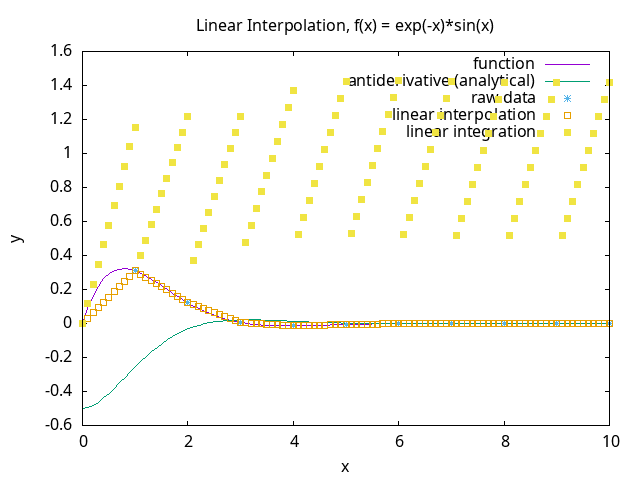
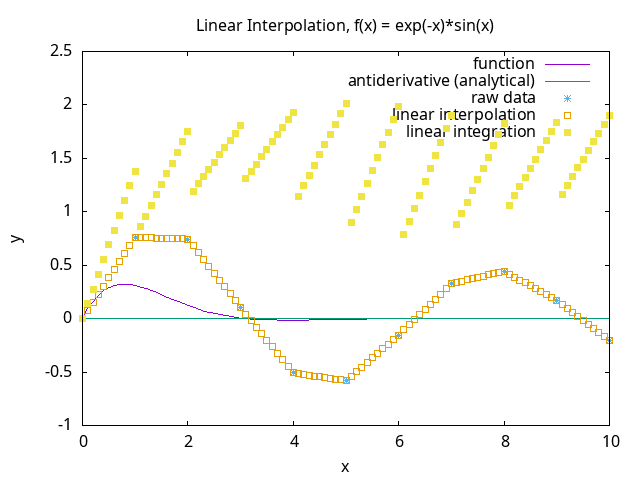
splines part (a)

diff --git a/homework/splines/main.cs b/homework/splines/main.cs
@@ -50,7 +50,7 @@ public static class main {
         }
         for(int i = 0; i <= nminusone; i++) {
             double x = (i/xmax)*nminusone;
-            double y = Exp(-x)*Sin(x);
+            double y = Exp(-0.1*x)*Sin(x);
             Write($"{x}\t {y}\n");
         }
     }
